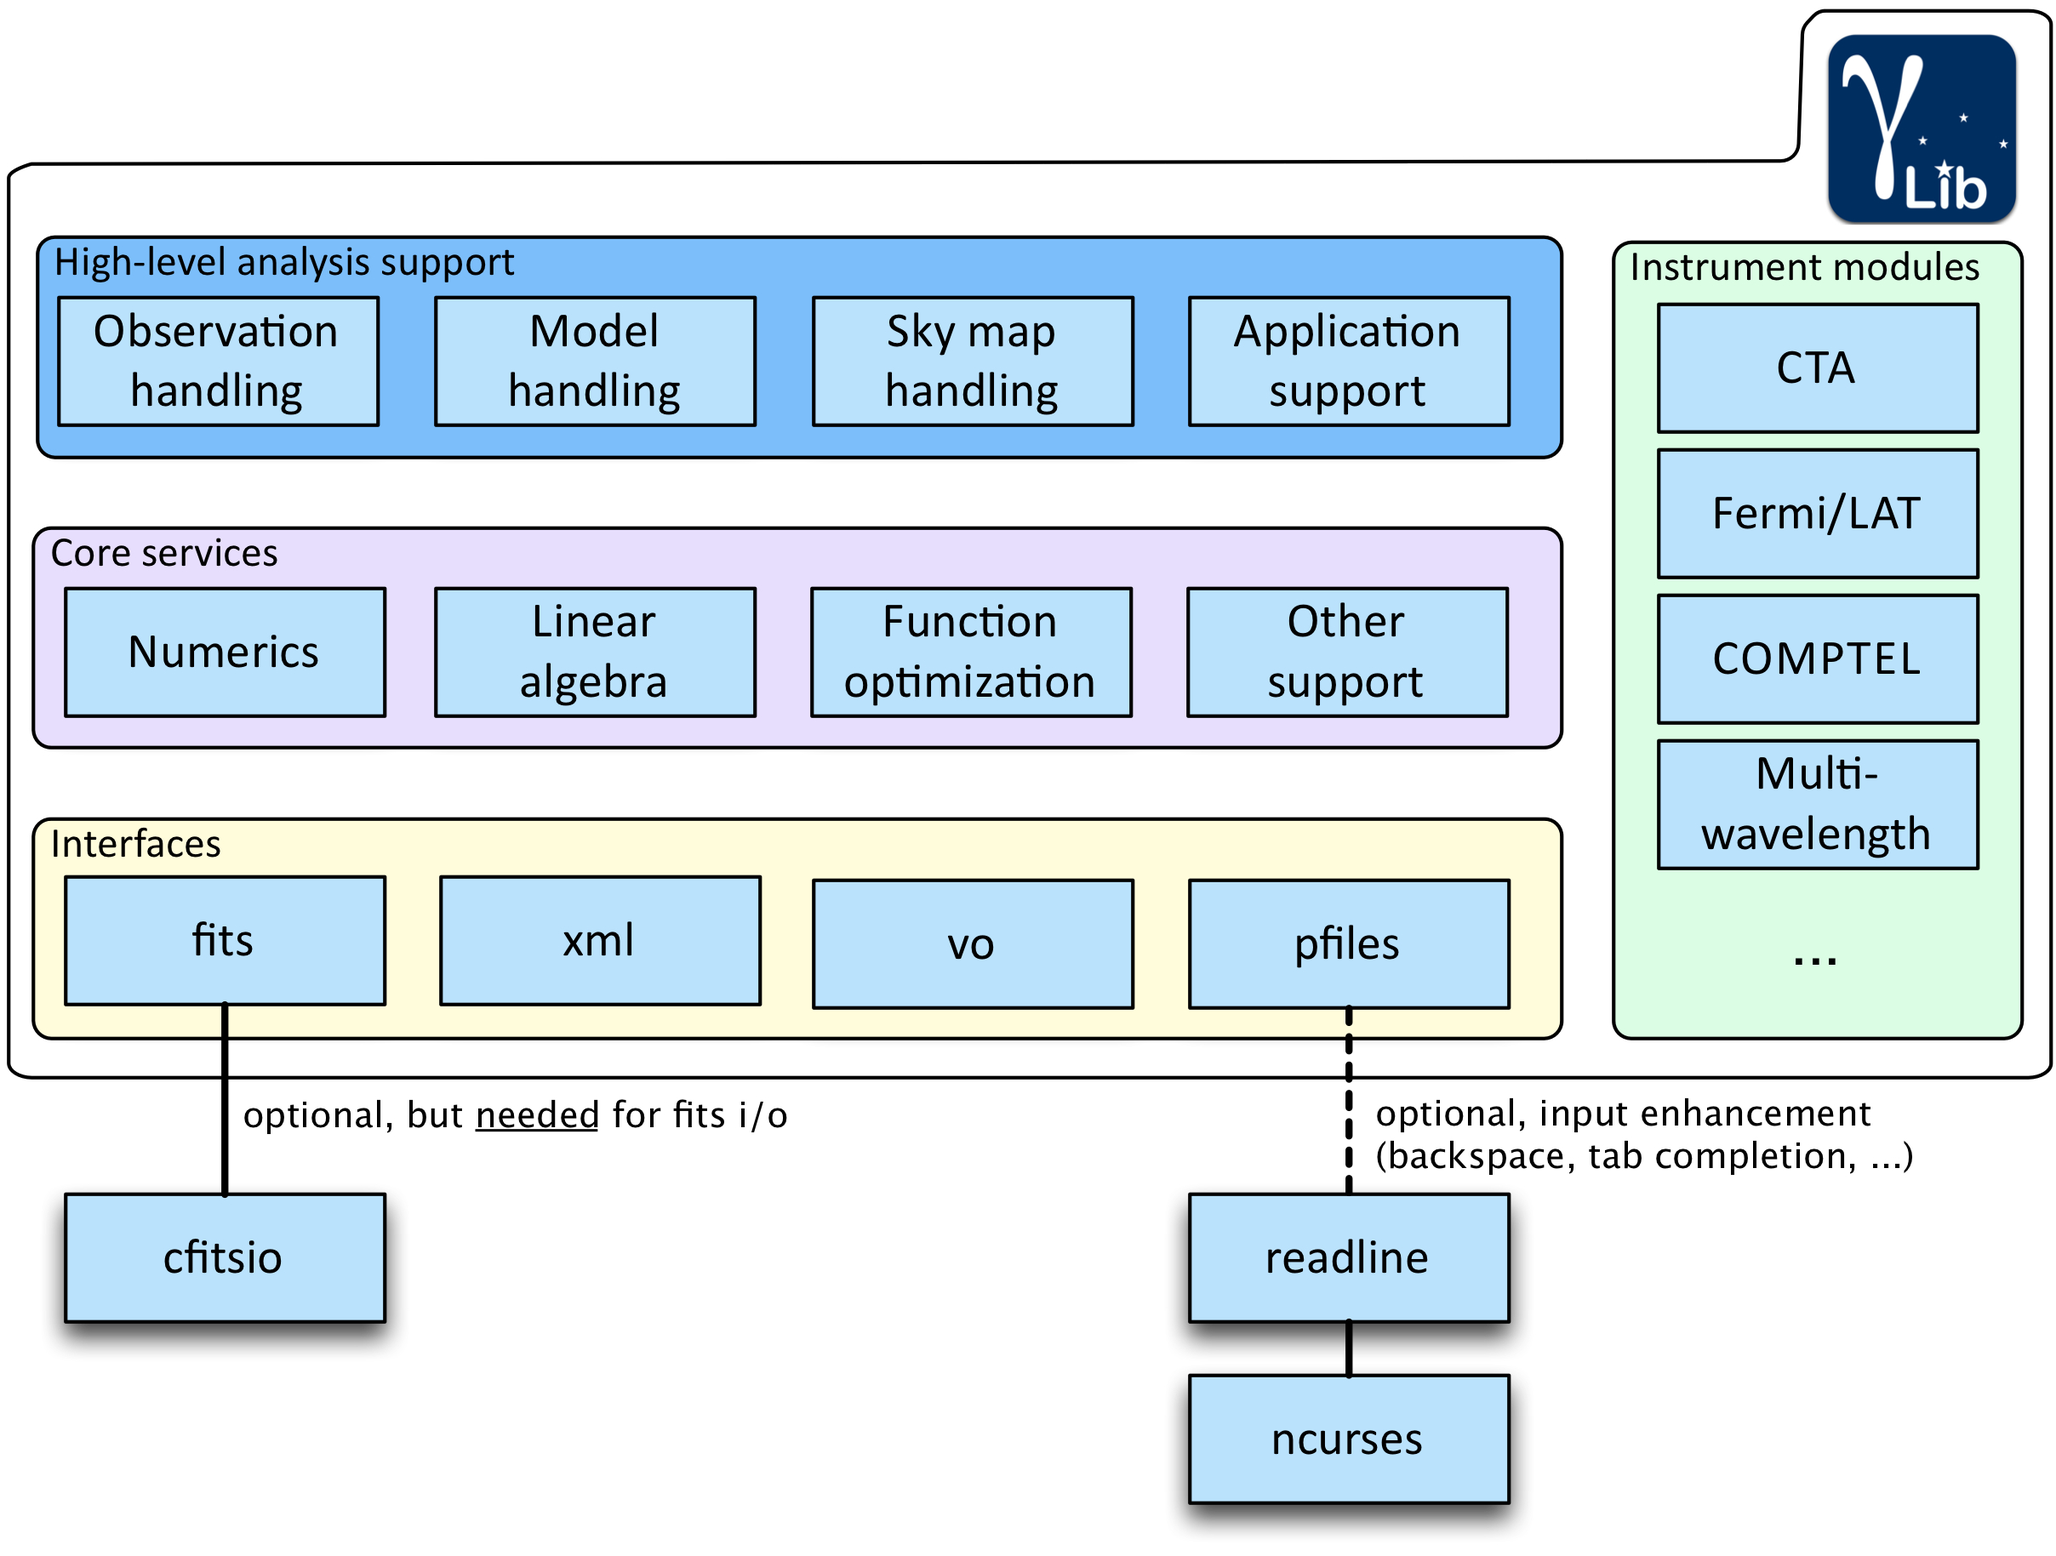
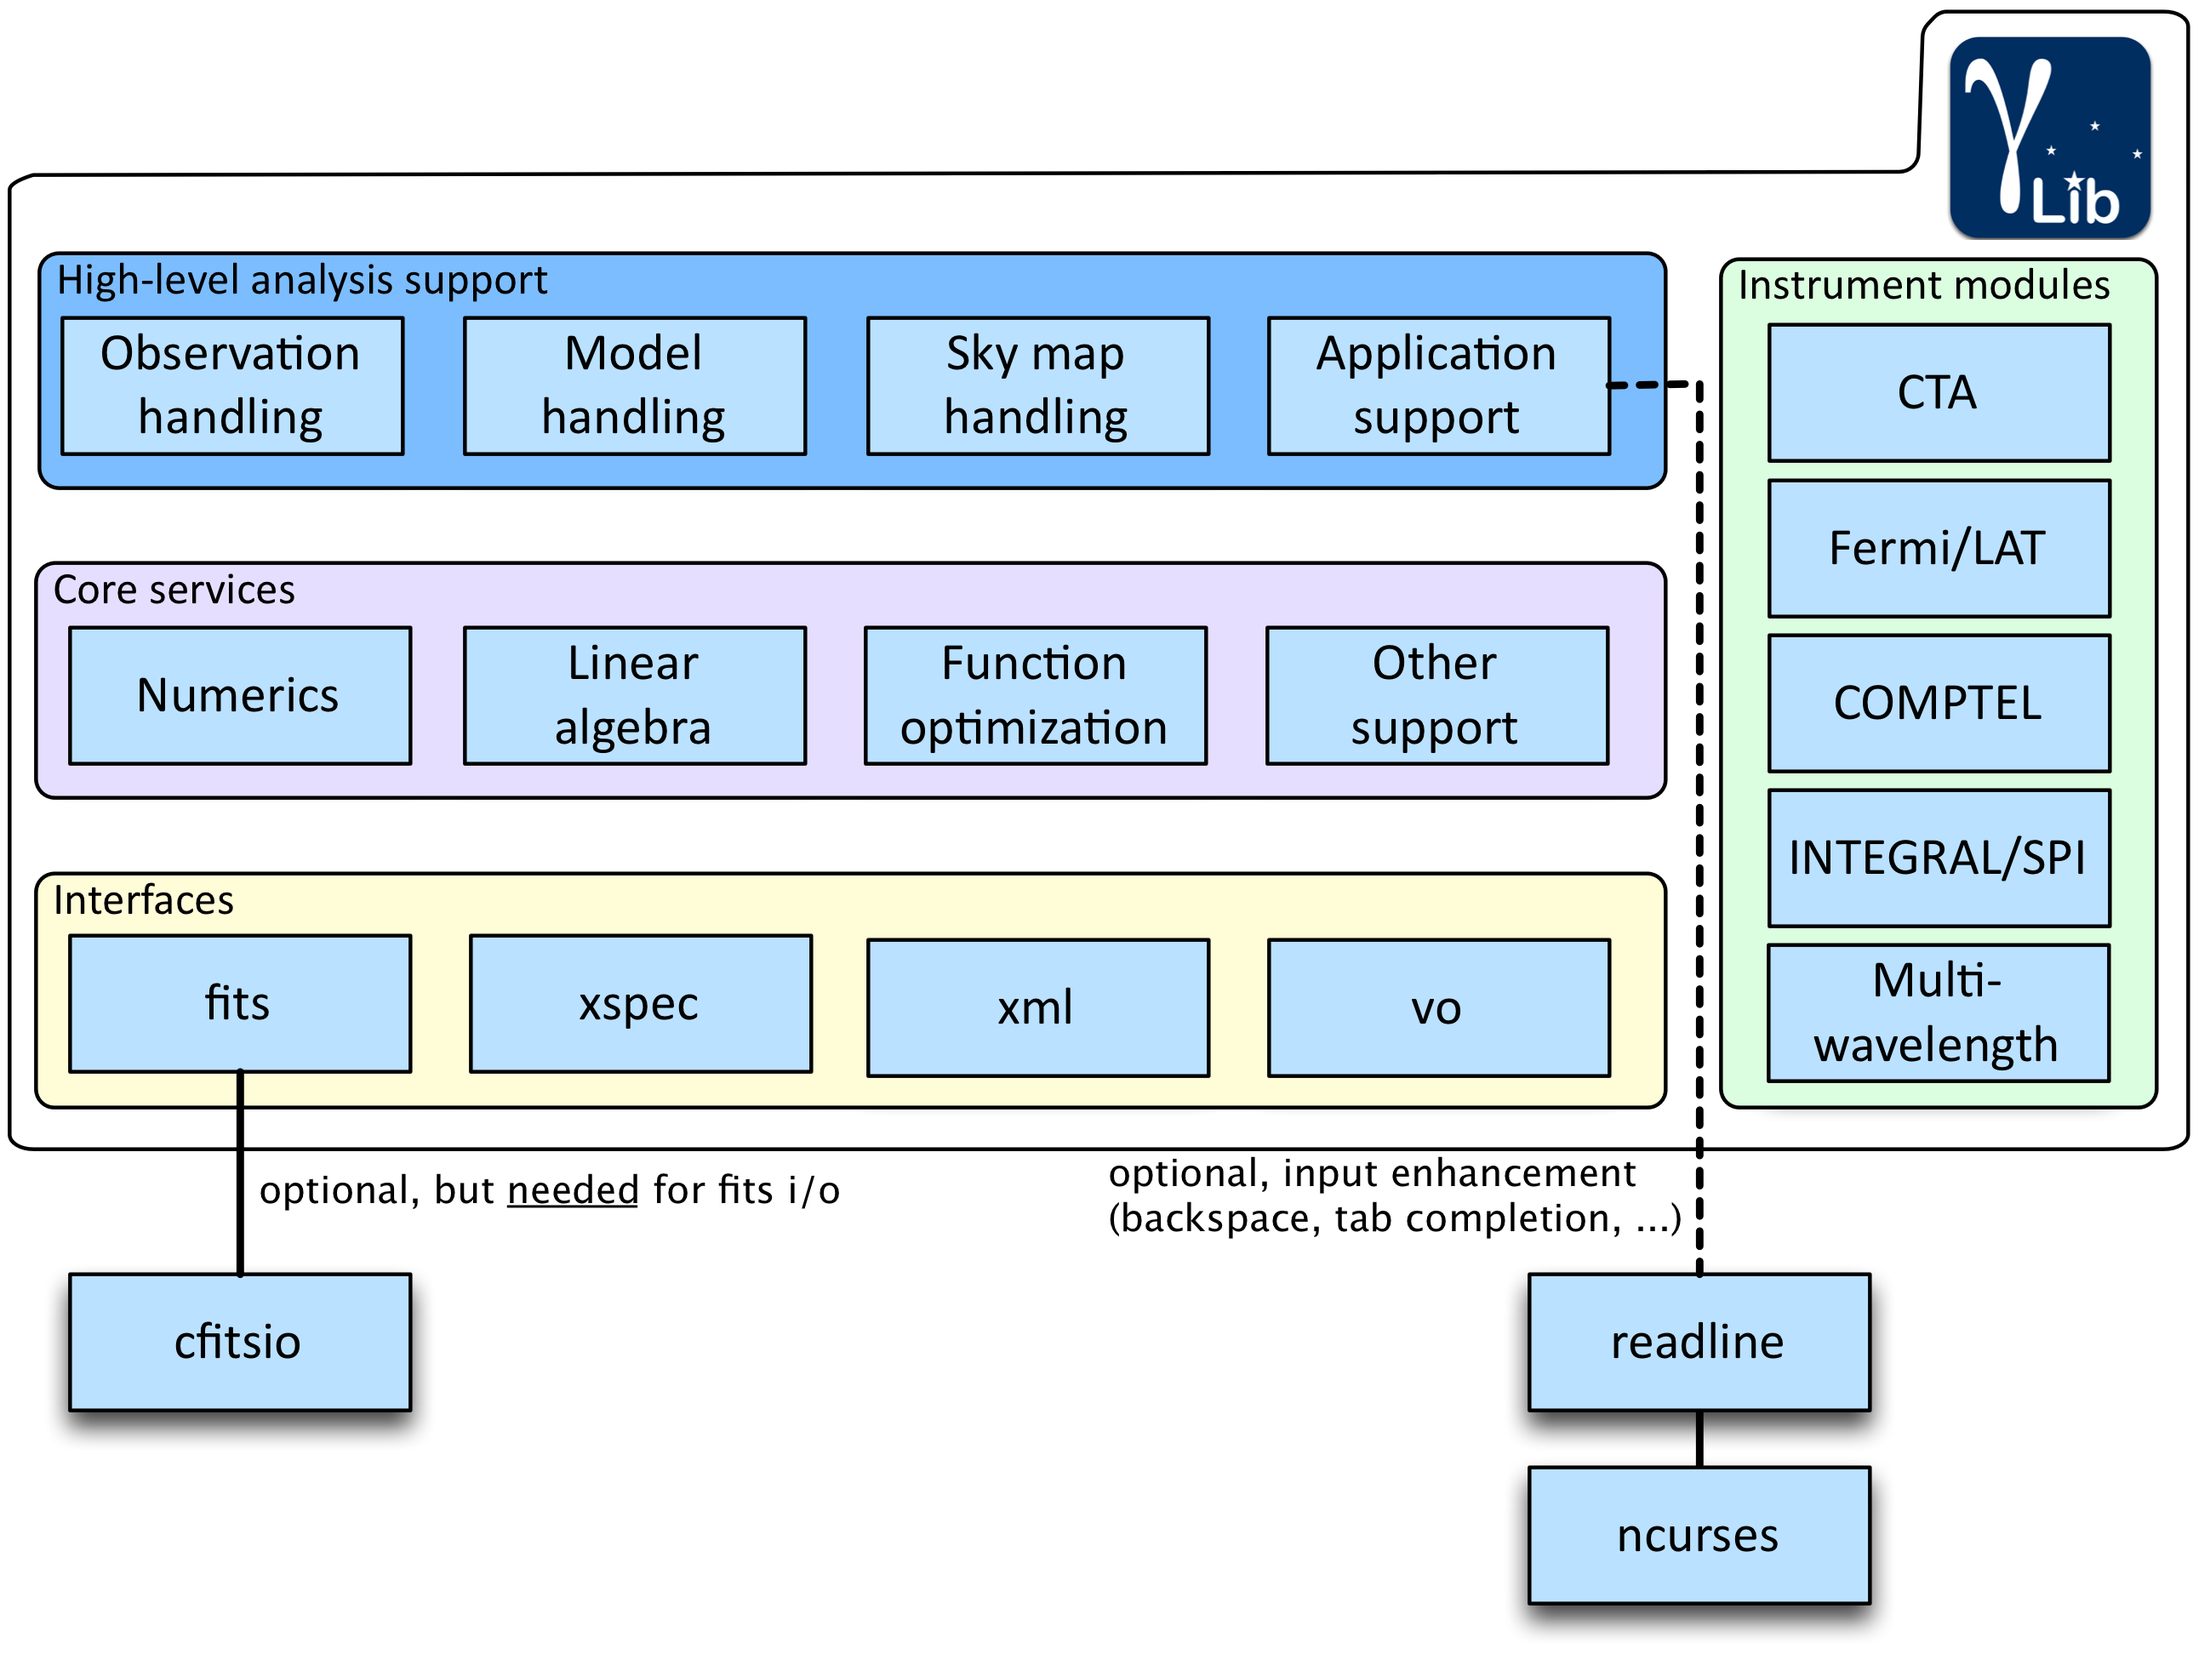
Update documentation to inform also about INTEGRAL/SPI

diff --git a/doc/source/_templates/index.html b/doc/source/_templates/index.html
@@ -12,8 +12,8 @@ functions, are implemented as isolated and well defined modules sharing
 an identical abstract interface. This enables a joint multi-instrument
 analysis of data, allowing for consistent broad-band spectral fitting
 or imaging. So far, GammaLib supports analysis of data obtained with
-COMPTEL, Fermi/LAT, and Cherenkov telescopes (CTA, H.E.S.S., MAGIC,
-VERITAS). {%endtrans%}</p>
+COMPTEL, Fermi/LAT, INTEGRAL/SPI and Cherenkov telescopes (CTA, H.E.S.S.,
+MAGIC, VERITAS). {%endtrans%}</p>
 
 <p>{%trans%} Except for HEASARC's cfitsio library that is used to implement
 the FITS interface, GammaLib does not rely on any third-party 

diff --git a/doc/source/users/user_manual/inst/spi/index.rst b/doc/source/users/user_manual/inst/spi/index.rst
@@ -1,0 +1,53 @@
+.. um_com:
+
+INTEGRAL/SPI interface
+----------------------
+
+Overview
+~~~~~~~~
+
+The SPI module supports the Spectrometre on INTEGRAL, an instrument for
+low-energy gamma-ray astronomy that currently flies on ESA's INTEGRAL
+satellite. The satellite was launched on 17 October 2002 and operates since
+then in an elliptical orbit of about three days. The SPI telescope operates
+between 20 keV and 8 MeV and is equipped with 19 high-resolution Germanium
+detectors. It uses a coded mask to image sources in a field-of-view of about
+16 deg in diameter (fully coded). The angular resolution is about 2 deg, the
+spectral resolution is about 2 keV.
+
+The following figure presents an overview over the C++ classes of the SPI
+module and their relations.
+
+.. _fig_uml_spi:
+
+.. figure:: uml_spi.png
+   :width: 70%
+   :align: center
+
+   *SPI module*
+
+The central object is a SPI observation, implemented by the
+:doxy:`GSPIObservation` class.
+The class holds a SPI event cube that is implemented by the
+:doxy:`GSPIEventCube` class.
+The event cube spans the full SPI data space which is 3-dimensional and
+spanned by a time axis (defined as the pointing sequence of the telescope),
+a detector axis and an energy axis.
+A single bin of the event cube is implemented by the :doxy:`GSPIEventBin`
+class.
+Each event bin contains the instrument direction, implemented by the
+:doxy:`GSPIInstDir` class, that is defined by the pointing direction of
+the telescope at the time that the event was recorded and the detector
+number in which the event occured.
+In addition, the event bin contains the energy and trigger time of the
+event.
+
+The :doxy:`GSPIObservation` class holds furthermore the Instrument Response
+Function (IRF) that is implemented by the :doxy:`GSPIResponse` class.
+Internally, :doxy:`GSPIResponse` stores the IRF as a multi-dimensional
+sky map.
+
+To model the instrumental background the :doxy:`GSPIModelDataSpace` class
+exists which defines scaling factors of a model factor for various data space
+sub regions.
+Sub regions can be defined in all three data space dimensions.

diff --git a/doc/source/users/user_manual/inst/com/index.rst b/doc/source/users/user_manual/inst/com/index.rst
@@ -6,6 +6,10 @@ COMPTEL interface
 Overview
 ~~~~~~~~
 
+The COMPTEL module provides an instrument interface for the COMPTEL 
+telescope that has been operated on the Compton Gamma-Ray Observatory 
+(CGRO) from 1991 to 2000.
+
 The following figure presents an overview over the C++ classes of the COMPTEL
 module and their relations.
 
@@ -16,10 +20,6 @@ module and their relations.
    :align: center
 
    *COMPTEL module*
-
-The COMPTEL module provides an instrument interface for the COMPTEL 
-telescope that has been operated on the Compton Gamma-Ray Observatory 
-(CGRO) from 1991 to 2000.
 
 The central object is a COMPTEL observation, implemented by the
 :doxy:`GCOMObservation` class. The class either holds a COMPTEL event cube,

diff --git a/doc/source/about.rst b/doc/source/about.rst
@@ -13,8 +13,8 @@ functions, are implemented as isolated and well defined modules sharing
 an identical abstract interface. This enables a joint multi-instrument
 analysis of data, allowing for consistent broad-band spectral fitting
 or imaging. So far, GammaLib supports analysis of data obtained with
-COMPTEL, Fermi/LAT, and Cherenkov telescopes (CTA, H.E.S.S., MAGIC,
-VERITAS).
+COMPTEL, Fermi/LAT, INTEGRAL/SPI and Cherenkov telescopes (CTA, H.E.S.S.,
+MAGIC, VERITAS).
 
 Except for HEASARC's cfitsio library that is used to implement
 the FITS interface, GammaLib does not rely on any third-party 

diff --git a/doc/source/users/user_manual/overview.rst b/doc/source/users/user_manual/overview.rst
@@ -73,7 +73,8 @@ correspond to the folders in the source code distribution):
 
    GammaLib support the analysis of data from the Cherenkov Telescope Array
    (cta), the Fermi/LAT telescope (lat), the COMPTEL telescope (com),
-   and any multi-wavelength information in form of spectral data points (mwl).
+   the INTEGRAL/SPI telescope (spi), and any multi-wavelength information
+   in form of spectral data points (mwl).
 
 .. _fig_structure:
 

diff --git a/doc/source/users/user_manual/inst/index.rst b/doc/source/users/user_manual/inst/index.rst
@@ -9,4 +9,5 @@ Instrument modules
    cta/index
    lat/index
    com/index
+   spi/index
    mwl/index
